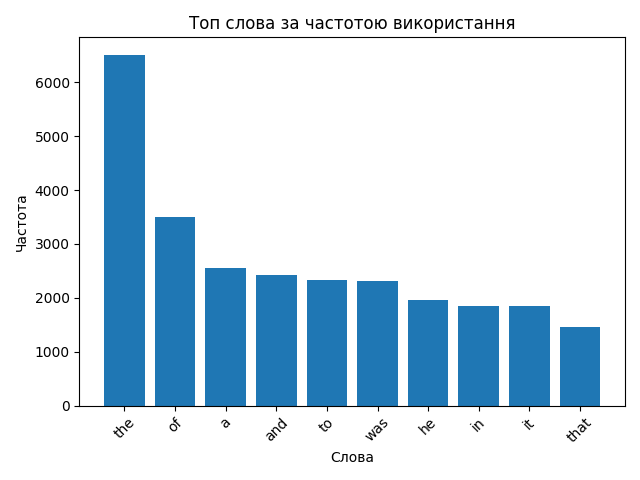
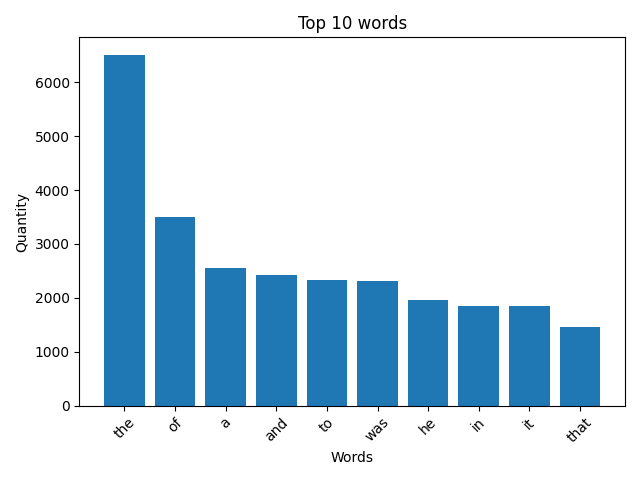
change img

Changed region(s): [[0.2812, 0.0312, 0.8125, 0.0625], [0.0, 0.4062, 0.0625, 0.5312], [0.5, 0.9375, 0.5938, 0.9688]]

diff --git a/task_01.py b/task_01.py
@@ -21,21 +21,24 @@ def visualize_top_words(word_frequencies, top_n=10):
     top_words = word_frequencies.most_common(top_n)
     words, frequencies = zip(*top_words)
     plt.bar(words, frequencies)
-    plt.xlabel("Слова")
-    plt.ylabel("Частота")
-    plt.title("Топ слова за частотою використання")
+    plt.xlabel("Words")
+    plt.ylabel("Quantity")
+    plt.title("Top 10 words")
     plt.xticks(rotation=45)
     plt.tight_layout()
     plt.savefig("top_words.png")  
-    print("Графік збережено як 'top_words.png'")
+    print("Plot saved as 'top_words.png'")
 
 
 
 if __name__ == "__main__":
-    url = input("Введіть URL для аналізу тексту: ").strip()
+    url = input("Enter URL: ").strip()
     text = fetch_text_from_url(url)
     words = map_func(text)
 
     word_frequencies = reduce_func(words)
 
     visualize_top_words(word_frequencies, top_n=10)
+
+
+    #  url = "https://www.gutenberg.net.au/ebooks01/0100021.txt"
